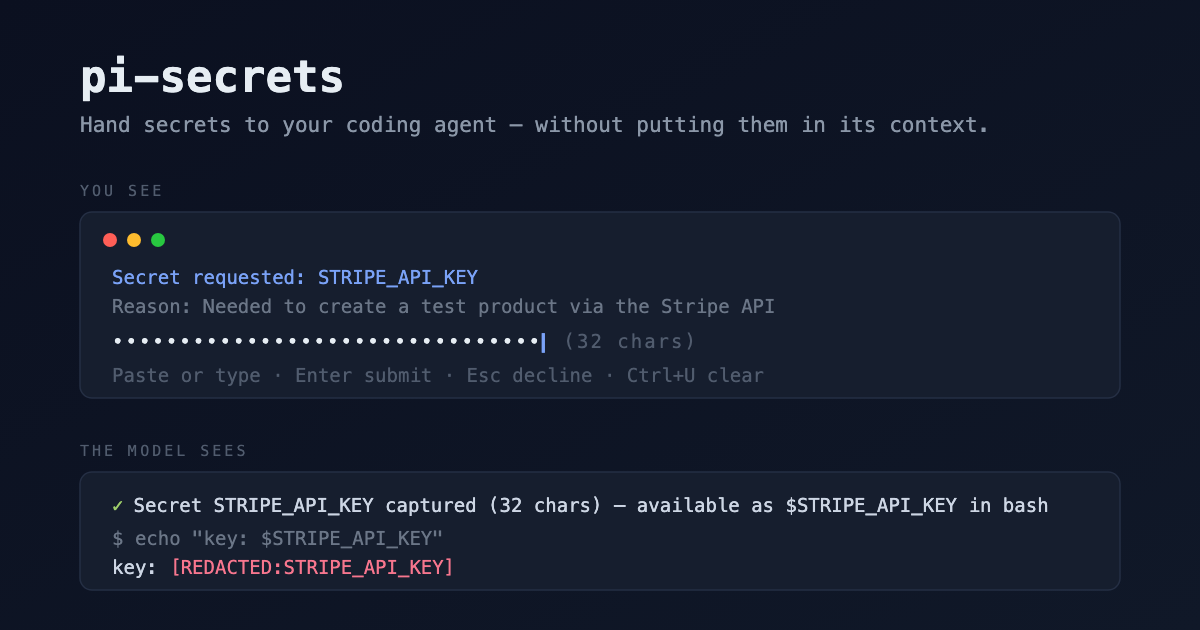
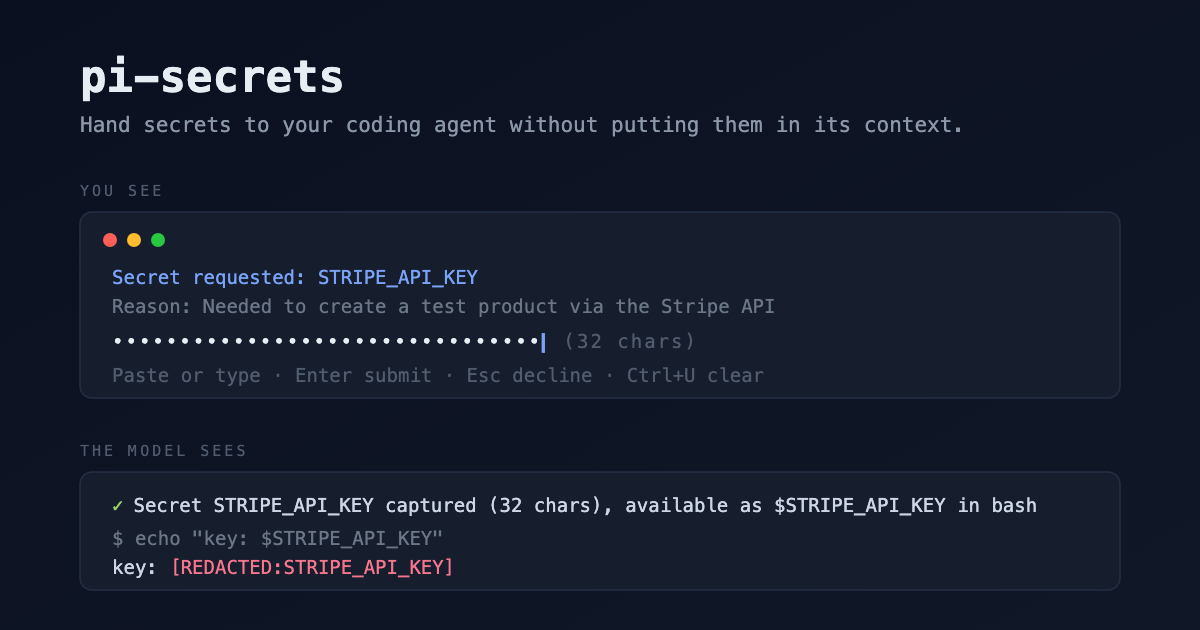
Clean up wording in README, docs, and UI strings

Changed region(s): [[0.4317, 0.181, 0.8325, 0.2111], [0.5242, 0.7841, 0.8633, 0.8444]]

diff --git a/src/index.ts b/src/index.ts
@@ -97,7 +97,7 @@ export default function piSecrets(pi: ExtensionAPI) {
 			}
 
 			// Present in the inherited environment → confirm interactively; reuse silently
-			// headless (the model can already read the environment there — tracking it at
+			// headless (the model can already read the environment there; tracking it at
 			// least brings the value under redaction).
 			const inherited = process.env[name];
 			if (inherited) {
@@ -135,7 +135,7 @@ export default function piSecrets(pi: ExtensionAPI) {
 			updateStatus(ctx);
 
 			if (value.length < SHORT_SECRET_LENGTH) {
-				ctx.ui.notify(`${name} is only ${value.length} chars — redaction may over-match short strings`, "warning");
+				ctx.ui.notify(`${name} is only ${value.length} chars; redaction may over-match short strings`, "warning");
 			} else {
 				ctx.ui.notify(`Secret ${name} captured (${value.length} chars)`, "info");
 			}
@@ -157,7 +157,7 @@ export default function piSecrets(pi: ExtensionAPI) {
 		};
 	});
 
-	// User `!`/`!!` commands also enter context — scrub their streamed output too.
+	// User `!`/`!!` commands also enter context; scrub their streamed output too.
 	// Per-chunk scrubbing can miss a value split across chunk boundaries; accepted gap.
 	pi.on("user_bash", () => {
 		if (store.isEmpty()) return;
@@ -224,7 +224,7 @@ export default function piSecrets(pi: ExtensionAPI) {
 			}
 
 			const describe = (r: SecretRecord) => `${r.name} · ${r.source} · ${r.length} chars`;
-			const choice = await ctx.ui.select(`Secrets (${records.length}) — select one to clear`, [
+			const choice = await ctx.ui.select(`Secrets (${records.length}): select one to clear`, [
 				...records.map(describe),
 				"Clear all",
 				"Close",

diff --git a/src/masked-input.ts b/src/masked-input.ts
@@ -8,7 +8,7 @@ const PASTE_END = "\x1b[201~";
 /**
  * Single-line masked input for ctx.ui.custom(). Renders bullets instead of the
  * value, buffers bracketed paste itself (pi-tui's Input silently strips
- * newlines on paste — here interior newlines must reject the capture instead),
+ * newlines on paste; here interior newlines must reject the capture instead),
  * and resolves with the value on Enter or undefined on Esc.
  */
 export class MaskedInput implements Component, Focusable {
@@ -72,7 +72,7 @@ export class MaskedInput implements Component, Focusable {
 			return;
 		}
 		if (data.startsWith("\x1b")) {
-			// Unhandled escape sequence (arrow keys etc.) — a masked field has no cursor movement.
+			// Unhandled escape sequence (arrow keys etc.); a masked field has no cursor movement.
 			return;
 		}
 
@@ -84,7 +84,7 @@ export class MaskedInput implements Component, Focusable {
 	}
 
 	private acceptPaste(raw: string): void {
-		// A single trailing newline is a copy artifact (pbcopy < file, terminal selection) — strip it.
+		// A single trailing newline is a copy artifact (pbcopy < file, terminal selection); strip it.
 		const content = raw.replace(/[\r\n]+$/, "");
 		if (/[\r\n]/.test(content)) {
 			this.error = "Multi-line value detected. Give the agent a file path instead, or press Esc to decline.";
@@ -101,7 +101,7 @@ export class MaskedInput implements Component, Focusable {
 			return;
 		}
 		if (value.length < MIN_SECRET_LENGTH) {
-			this.error = `Only ${value.length} characters — that looks like a paste error. Fix the value or press Esc to decline.`;
+			this.error = `Only ${value.length} characters, which looks like a paste error. Fix the value or press Esc to decline.`;
 			this.tui.requestRender();
 			return;
 		}

diff --git a/README.md b/README.md
@@ -6,7 +6,7 @@
 
 A [pi](https://github.com/badlogic/pi-mono) extension for handing secrets to the agent without them ever entering the model's context window.
 
-When a task needs an API key, token, or password, the model calls the `request_secret` tool. You get a **masked prompt** in the TUI, paste the value, and the model only learns the secret's *name* and *length*. The value itself becomes an environment variable available to every subsequent `bash` command — and a redaction layer scrubs the value from all tool output as a backstop.
+When a task needs an API key, token, or password, the model calls the `request_secret` tool. You get a **masked prompt** in the TUI, paste the value, and the model only learns the secret's *name* and *length*. The value itself becomes an environment variable available to every subsequent `bash` command, and a redaction layer scrubs the value from all tool output as a backstop.
 
 ![You see a masked prompt; the model sees only the name, length, and redaction markers](https://raw.githubusercontent.com/liamvinberg/pi-secrets/main/assets/preview.png)
 
@@ -20,16 +20,16 @@ Or try it ephemerally: `pi -e npm:pi-secrets`
 
 ## How it works
 
-1. **Capture** — `request_secret({ name, reason })` pops a masked single-line input. The value goes straight into the agent process's memory; nothing is written to disk, chat, or session files.
-2. **Delivery** — pi's bash tool builds its child environment from the agent's `process.env`, so the captured value is available as `$NAME` in every subsequent command. Need it in a file? The model runs `echo "NAME=$NAME" >> .env` — still without seeing the value.
-3. **Redaction** — every tool result (and `!` user-bash output) is scrubbed before it reaches the model or the session file: the exact value plus its base64 and URL-encoded variants are replaced with `[REDACTED:NAME]`. If the model runs `echo $NAME`, it sees the redaction marker, not the secret.
-4. **Subagents** — child pi processes inherit the environment. `PI_SECRETS_NAMES` carries the *names* (never values), so a child running this extension rebuilds its own redaction map.
+1. **Capture**: `request_secret({ name, reason })` pops a masked single-line input. The value goes straight into the agent process's memory; nothing is written to disk, chat, or session files.
+2. **Delivery**: pi's bash tool builds its child environment from the agent's `process.env`, so the captured value is available as `$NAME` in every subsequent command. Need it in a file? The model runs `echo "NAME=$NAME" >> .env`, still without seeing the value.
+3. **Redaction**: every tool result (and `!` user-bash output) is scrubbed before it reaches the model or the session file: the exact value plus its base64 and URL-encoded variants are replaced with `[REDACTED:NAME]`. If the model runs `echo $NAME`, it sees the redaction marker, not the secret.
+4. **Subagents**: child pi processes inherit the environment. `PI_SECRETS_NAMES` carries the *names* (never values), so a child running this extension rebuilds its own redaction map.
 
 ### Reuse rules
 
 | Situation | Behavior |
 |---|---|
-| Name already captured this process | Silent reuse — the model is told it's available |
+| Name already captured this process | Silent reuse; the model is told it's available |
 | Name in your shell environment at pi startup | Confirm dialog; allowing also registers the value for redaction |
 | Name in environment, headless (`pi -p`) | Silent reuse + redaction (the model could read the env there anyway) |
 | Nothing anywhere, headless | Tool errors with guidance to export the variable or run interactively |
@@ -41,23 +41,23 @@ Secrets live for the **pi process lifetime**: they survive session switches (`/n
 
 ## Commands
 
-- `/secrets` — list held secrets (name · source · length), interactively clear one or all
-- `/secrets clear <NAME|all>` — clear directly
+- `/secrets`: list held secrets (name · source · length), interactively clear one or all
+- `/secrets clear <NAME|all>`: clear directly
 
 Clearing a *captured* secret also removes it from the agent environment; clearing an *inherited* one only stops tracking/redaction.
 
 ## Security model (read this)
 
-This is **cooperative, not adversarial** (see [ADR-0002](docs/adr/0002-cooperative-security-model.md)). It protects against *accidental* disclosure: secrets pasted into chat, echoed by commands, or persisted in session transcripts. It does **not** defend against a malicious model — one that can run bash can exfiltrate anything the process can reach. Known gaps, accepted by design:
+This is **cooperative, not adversarial** (see [ADR-0002](docs/adr/0002-cooperative-security-model.md)). It protects against *accidental* disclosure: secrets pasted into chat, echoed by commands, or persisted in session transcripts. It does **not** defend against a malicious model: one that can run bash can exfiltrate anything the process can reach. Known gaps, accepted by design:
 
 - Transformations beyond exact/base64/URL-encoded (hex, JWTs signed with the secret, etc.) are not caught.
-- Values shorter than 4 chars are rejected at capture; 4–7 chars are accepted with a warning (short values risk redaction over-matching).
-- Multi-line secrets (PEM keys, service-account JSON) are rejected — point the agent at a file path instead. Planned for a later version.
+- Values shorter than 4 chars are rejected at capture; 4 to 7 chars are accepted with a warning (short values risk redaction over-matching).
+- Multi-line secrets (PEM keys, service-account JSON) are rejected; point the agent at a file path instead. Planned for a later version.
 - MCP servers spawned at pi startup never see secrets captured later ([ADR-0001](docs/adr/0001-env-var-injection-over-file-relay.md)).
 
 ## Claude Code?
 
-This extension is pi-native on purpose ([ADR-0003](docs/adr/0003-pi-native-over-mcp-broker.md)). The equivalent for Claude Code is a different build: an MCP server using **elicitation** (responses stay server-side), env delivery via a `CLAUDE_ENV_FILE` SessionStart/hook, and a PostToolUse redaction hook. Same design, different code — contributions welcome.
+This extension is pi-native on purpose ([ADR-0003](docs/adr/0003-pi-native-over-mcp-broker.md)). The equivalent for Claude Code is a different build: an MCP server using **elicitation** (responses stay server-side), env delivery via a `CLAUDE_ENV_FILE` SessionStart/hook, and a PostToolUse redaction hook. Same design, different code. Contributions welcome.
 
 ## Development
 

diff --git a/CONTEXT.md b/CONTEXT.md
@@ -5,7 +5,7 @@ Secure hand-off of secrets from a human to a pi coding-agent session: the agent 
 ## Language
 
 **Secret**:
-A sensitive value (API key, token, password) owned by the human. Exists only in process memory and the process environment — never in model context, chat, or session files.
+A sensitive value (API key, token, password) owned by the human. Exists only in process memory and the process environment, never in model context, chat, or session files.
 _Avoid_: credential, key
 
 **Secret Name**:
@@ -29,5 +29,5 @@ Answering a `request_secret` call from an already-tracked Secret instead of prom
 The human refusing a request (Esc or answering no). Surfaces to the model as a tool error instructing it not to re-ask.
 
 **Redaction**:
-Replacing a Secret's value — and its base64/URL-encoded variants — with `[REDACTED:NAME]` in anything that would enter model context or session files. A backstop against accidents, not a security boundary.
+Replacing a Secret's value (and its base64/URL-encoded variants) with `[REDACTED:NAME]` in anything that would enter model context or session files. A backstop against accidents, not a security boundary.
 _Avoid_: masking (reserved for the visual bullets in the Capture prompt)

diff --git a/docs/adr/0002-cooperative-security-model.md b/docs/adr/0002-cooperative-security-model.md
@@ -1,8 +1,8 @@
 # The model is trusted-but-verified, not adversarial
 
-The threat this extension addresses is accidental disclosure — a secret pasted into chat, echoed by a command, or persisted into session files — not a malicious model deliberately exfiltrating values it can already reach through bash. The model is instructed to use secrets only by `$NAME` reference; redaction of tool output (exact value plus base64/URL-encoded variants) is a backstop against accidents, not a security boundary.
+The threat this extension addresses is accidental disclosure (a secret pasted into chat, echoed by a command, or persisted into session files), not a malicious model deliberately exfiltrating values it can already reach through bash. The model is instructed to use secrets only by `$NAME` reference; redaction of tool output (exact value plus base64/URL-encoded variants) is a backstop against accidents, not a security boundary.
 
 ## Consequences
 
 - A hostile model could still move a transformed value (hex re-encoding, a JWT signed with the secret, `curl` to an external host). Defending against that requires sandboxing the execution environment and is explicitly out of scope here.
-- Redaction gaps (novel encodings, sub-string leaks) are accepted and documented rather than chased — matching the posture of GitHub Actions' `::add-mask::`.
+- Redaction gaps (novel encodings, sub-string leaks) are accepted and documented rather than chased, matching the posture of GitHub Actions' `::add-mask::`.

diff --git a/docs/adr/0001-env-var-injection-over-file-relay.md b/docs/adr/0001-env-var-injection-over-file-relay.md
@@ -1,6 +1,6 @@
 # Secrets travel to commands via process.env, not files
 
-pi's bash tool builds its child environment from the agent's own `process.env` (`getShellEnv()` spreads it), so setting `process.env[NAME]` at capture time makes `$NAME` available in every subsequent bash command. We chose this over the obvious alternative — writing the value to a `mktemp` file the model sources or `$(cat)`s — because it leaves zero bytes on disk, needs no cleanup or permission management, dies with the process, and is inherited by child processes (subagents) for free.
+pi's bash tool builds its child environment from the agent's own `process.env` (`getShellEnv()` spreads it), so setting `process.env[NAME]` at capture time makes `$NAME` available in every subsequent bash command. We chose this over the obvious alternative (writing the value to a `mktemp` file the model sources or `$(cat)`s) because it leaves zero bytes on disk, needs no cleanup or permission management, dies with the process, and is inherited by child processes (subagents) for free.
 
 ## Consequences
 

diff --git a/docs/adr/0003-pi-native-over-mcp-broker.md b/docs/adr/0003-pi-native-over-mcp-broker.md
@@ -4,4 +4,4 @@ An MCP "secrets broker" server could in principle serve both pi and Claude Code 
 
 ## Consequences
 
-- A Claude Code counterpart is a separate build: an MCP server using elicitation (responses stay server-side), delivery via a `CLAUDE_ENV_FILE` hook, and a PostToolUse redaction hook. It shares this design — the CONTEXT.md language and the reuse/redaction rules — but not this code.
+- A Claude Code counterpart is a separate build: an MCP server using elicitation (responses stay server-side), delivery via a `CLAUDE_ENV_FILE` hook, and a PostToolUse redaction hook. It shares this design (the CONTEXT.md language and the reuse/redaction rules) but not this code.